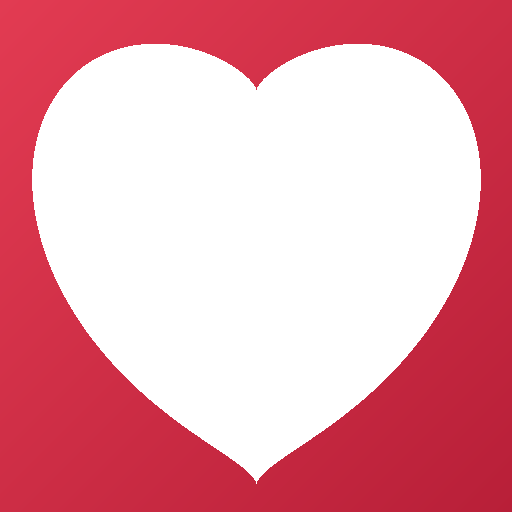
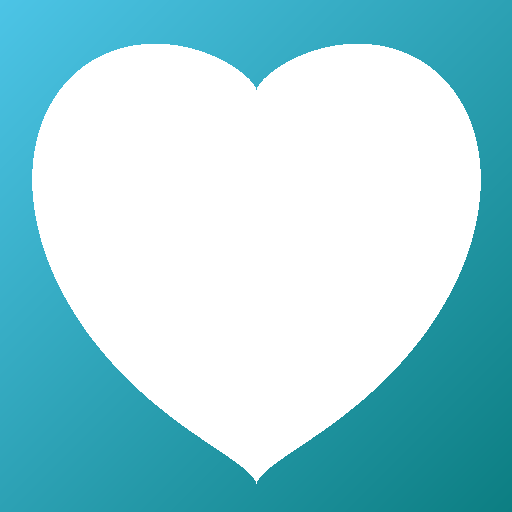
Cambiar a Gemini (gratis) y rediseñar en celeste/calipso
- IA: el backend ahora usa Gemini (Google), que tiene capa gratuita,
  en lugar de Anthropic. Nueva variable GEMINI_API_KEY y GEMINI_MODEL.
  Actualizado .env.example y README con el enlace a Google AI Studio.
- Paleta rediseñada con celeste y calipso como colores protagonistas
  (sus favoritos), dorado del circo como acento y el rojo reservado
  solo para el botón SOS por seguridad. Actualizados botones, cintas,
  chat, mapa (marcadores y ruta), íconos PWA, favicon y theme-color.

Claude-Session: https://claude.ai/code/session_01Wpqw4RuzVFaFfNsXj3oX2w

diff --git a/src/estilos.css b/src/estilos.css
@@ -1,25 +1,39 @@
 /* ============================================================
    Contigo — sistema de diseño
-   Inspirado en sus gustos: circo (colores festivos), manualidades
-   (texturas y bordes hechos a mano), taekwondo y cueca (detalles).
+   Paleta protagonista: CELESTE y CALIPSO (sus colores favoritos),
+   con dorado del circo como acento cálido. El rojo se reserva SOLO
+   para el botón SOS, para que resalte por seguridad.
+   Inspiración: circo, taekwondo, cueca y manualidades.
    Prioridad: accesibilidad. Letra grande, alto contraste, botones enormes.
    ============================================================ */
 
 :root {
-  /* Paleta circo + calidez */
-  --rojo-carpa: #e23b52;
-  --rojo-carpa-osc: #b81f38;
-  --dorado: #f2b134;
-  --turquesa: #17a2a2;
-  --turquesa-osc: #0e7d7d;
-  --crema: #fff8ef;
-  --papel: #fffdf9;
-  --tinta: #2b2320;
-  --tinta-suave: #6d5f56;
-  --verde-calma: #3ea672;
+  /* Celeste y calipso (favoritos de ella) */
+  --celeste: #4cc4e6;
+  --celeste-osc: #2ba0d6;
+  --celeste-claro: #bfeaf5;
+  --calipso: #12a3a8;
+  --calipso-osc: #0c7e82;
 
-  --sombra: 0 6px 0 rgba(0, 0, 0, 0.12);
-  --sombra-suave: 0 8px 24px rgba(43, 35, 32, 0.14);
+  /* Acentos cálidos de circo */
+  --dorado: #f4b63f;
+  --dorado-osc: #dd9a1f;
+  --coral: #ff7a6b;
+  --verde-calma: #26b39c;
+  --verde-calma-osc: #1c8f7f;
+
+  /* Rojo SOLO para el SOS */
+  --rojo-sos: #e23b52;
+  --rojo-sos-osc: #b81f38;
+
+  /* Neutros suaves con tinte celeste */
+  --crema: #f1fbfd;
+  --papel: #ffffff;
+  --tinta: #1f3a42;
+  --tinta-suave: #5a7681;
+
+  --sombra: 0 6px 0 rgba(12, 58, 66, 0.14);
+  --sombra-suave: 0 8px 24px rgba(18, 74, 82, 0.16);
   --radio: 26px;
 
   --fuente: system-ui, -apple-system, 'Segoe UI', Roboto, sans-serif;
@@ -33,10 +47,10 @@ body {
   font-family: var(--fuente);
   color: var(--tinta);
   background-color: var(--crema);
-  /* Textura suave tipo carpa de circo */
+  /* Textura suave celeste/calipso */
   background-image:
-    radial-gradient(circle at 20% 0%, rgba(242, 177, 52, 0.10), transparent 40%),
-    radial-gradient(circle at 90% 10%, rgba(23, 162, 162, 0.10), transparent 40%);
+    radial-gradient(circle at 15% 0%, rgba(76, 196, 230, 0.16), transparent 42%),
+    radial-gradient(circle at 92% 8%, rgba(18, 163, 168, 0.14), transparent 42%);
   -webkit-font-smoothing: antialiased;
   overscroll-behavior: none;
 }
@@ -67,14 +81,14 @@ body {
   padding: 16px 18px 4px;
 }
 .saludo { margin: 0; font-size: 1.55rem; line-height: 1.2; font-weight: 800; }
-.saludo .nombre { color: var(--rojo-carpa); }
+.saludo .nombre { color: var(--celeste-osc); }
 .subsaludo { margin: 4px 0 0; color: var(--tinta-suave); font-size: 1.05rem; }
 
-/* Cintas de circo decorativas */
+/* Cintas de circo decorativas (en celeste/calipso) */
 .cinta-circo {
   height: 12px;
   background: repeating-linear-gradient(
-    -45deg, var(--rojo-carpa) 0 18px, var(--crema) 18px 36px
+    -45deg, var(--celeste) 0 18px, var(--calipso) 18px 36px
   );
   opacity: 0.9;
 }
@@ -97,16 +111,16 @@ body {
   transition: transform 0.08s ease, filter 0.12s ease;
   line-height: 1.15;
 }
-.boton-grande:active { transform: translateY(4px); box-shadow: 0 2px 0 rgba(0,0,0,0.12); }
+.boton-grande:active { transform: translateY(4px); box-shadow: 0 2px 0 rgba(12,58,66,0.14); }
 .boton-grande .emoji { font-size: 2.4rem; line-height: 1; }
 .boton-grande small { display: block; font-size: 0.95rem; font-weight: 600; opacity: 0.92; margin-top: 4px; }
 
-.boton-grande.casa { background: linear-gradient(135deg, var(--turquesa), var(--turquesa-osc)); }
-.boton-grande.perdida { background: linear-gradient(135deg, var(--verde-calma), #2f8659); }
-.boton-grande.lugares { background: linear-gradient(135deg, var(--dorado), #d9951f); color: var(--tinta); }
-.boton-grande.lugares small { opacity: 0.75; }
+.boton-grande.casa { background: linear-gradient(135deg, var(--celeste), var(--celeste-osc)); }
+.boton-grande.perdida { background: linear-gradient(135deg, var(--verde-calma), var(--calipso-osc)); }
+.boton-grande.lugares { background: linear-gradient(135deg, var(--dorado), var(--dorado-osc)); color: var(--tinta); }
+.boton-grande.lugares small { opacity: 0.78; }
 
-/* ---------- Barra / botón SOS ---------- */
+/* ---------- Barra / botón SOS (rojo, por seguridad) ---------- */
 .sos-barra {
   position: sticky;
   bottom: 0;
@@ -122,7 +136,7 @@ body {
   font-weight: 900;
   letter-spacing: 0.5px;
   color: #fff;
-  background: linear-gradient(135deg, var(--rojo-carpa), var(--rojo-carpa-osc));
+  background: linear-gradient(135deg, var(--rojo-sos), var(--rojo-sos-osc));
   box-shadow: var(--sombra-suave);
   cursor: pointer;
   display: flex; align-items: center; justify-content: center; gap: 12px;
@@ -140,7 +154,7 @@ body {
   border-radius: var(--radio);
   padding: 18px;
   box-shadow: var(--sombra-suave);
-  border: 2px dashed rgba(226, 59, 82, 0.18); /* costura tipo manualidad */
+  border: 2px dashed rgba(18, 163, 168, 0.22); /* costura tipo manualidad */
 }
 .lugar {
   display: flex; align-items: center; gap: 16px;
@@ -160,15 +174,15 @@ body {
   box-shadow: var(--sombra); display: inline-flex; align-items: center; gap: 10px;
   justify-content: center;
 }
-.boton:active { transform: translateY(3px); box-shadow: 0 1px 0 rgba(0,0,0,0.12); }
-.boton.principal { background: var(--turquesa); color: #fff; }
+.boton:active { transform: translateY(3px); box-shadow: 0 1px 0 rgba(12,58,66,0.14); }
+.boton.principal { background: var(--calipso); color: #fff; }
 .boton.dorado { background: var(--dorado); color: var(--tinta); }
 .boton.suave { background: #fff; color: var(--tinta); box-shadow: var(--sombra-suave); }
 .boton.bloque { width: 100%; }
 
 .volver {
   background: none; border: none; font-size: 1.1rem; font-weight: 800;
-  color: var(--rojo-carpa); cursor: pointer; padding: 8px 0; display: inline-flex;
+  color: var(--celeste-osc); cursor: pointer; padding: 8px 0; display: inline-flex;
   align-items: center; gap: 8px;
 }
 
@@ -177,11 +191,11 @@ body {
 /* ---------- Formularios ---------- */
 label { display: block; font-weight: 800; margin: 14px 0 6px; }
 input, textarea {
-  width: 100%; border: 3px solid #eadfce; border-radius: 16px;
+  width: 100%; border: 3px solid #d3ecf3; border-radius: 16px;
   padding: 14px 16px; font-size: 1.15rem; font-family: var(--fuente);
   background: #fff; color: var(--tinta);
 }
-input:focus, textarea:focus { outline: none; border-color: var(--turquesa); }
+input:focus, textarea:focus { outline: none; border-color: var(--celeste-osc); }
 
 /* ---------- Mapa ---------- */
 .mapa-caja { border-radius: var(--radio); overflow: hidden; box-shadow: var(--sombra-suave); }
@@ -198,24 +212,24 @@ input:focus, textarea:focus { outline: none; border-color: var(--turquesa); }
 .mensajes { flex: 1; display: flex; flex-direction: column; gap: 12px; overflow-y: auto; padding-bottom: 8px; }
 .burbuja { max-width: 85%; padding: 16px 18px; border-radius: 22px; font-size: 1.2rem; line-height: 1.35; }
 .burbuja.ia { background: #fff; color: var(--tinta); box-shadow: var(--sombra-suave); border-bottom-left-radius: 6px; align-self: flex-start; }
-.burbuja.yo { background: var(--turquesa); color: #fff; border-bottom-right-radius: 6px; align-self: flex-end; }
+.burbuja.yo { background: var(--celeste-osc); color: #fff; border-bottom-right-radius: 6px; align-self: flex-end; }
 .chat-entrada { display: flex; gap: 10px; align-items: flex-end; }
 .chat-entrada textarea { resize: none; height: 56px; }
 .boton-voz {
   flex: none; width: 62px; height: 62px; border-radius: 50%; border: none;
-  background: var(--rojo-carpa); color: #fff; font-size: 1.6rem; cursor: pointer;
+  background: var(--calipso); color: #fff; font-size: 1.6rem; cursor: pointer;
   box-shadow: var(--sombra-suave);
 }
-.boton-voz.escuchando { animation: latido 1s ease-in-out infinite; background: var(--rojo-carpa-osc); }
+.boton-voz.escuchando { animation: latido 1s ease-in-out infinite; background: var(--calipso-osc); }
 
 /* ---------- Utilidades ---------- */
 .centrado { text-align: center; }
-.aviso { background: #fff4d6; border-radius: 16px; padding: 14px 16px; font-size: 1rem; color: #7a5b00; }
+.aviso { background: #e6f7fb; border-radius: 16px; padding: 14px 16px; font-size: 1rem; color: #0c5b66; }
 .error { background: #ffe0e4; color: #a01528; border-radius: 16px; padding: 14px 16px; }
 .cargando { text-align: center; color: var(--tinta-suave); font-size: 1.1rem; padding: 18px; }
 .chip-fila { display: flex; flex-wrap: wrap; gap: 10px; }
 .chip {
-  background: #fff; border: 2px solid #eadfce; border-radius: 999px;
+  background: #fff; border: 2px solid #d3ecf3; border-radius: 999px;
   padding: 10px 16px; font-size: 1rem; font-weight: 700; cursor: pointer;
 }
 .pie-firma { text-align: center; color: var(--tinta-suave); font-size: 0.85rem; padding: 8px 0 16px; }

diff --git a/api/asistente.js b/api/asistente.js
@@ -1,6 +1,9 @@
 // Backend seguro (función serverless de Vercel).
-// Recibe la conversación y el contexto, y responde con Claude usando un tono cálido.
-// La API key vive SOLO aquí (variable de entorno), nunca en el teléfono.
+// Recibe la conversación y el contexto, y responde con Gemini (Google) usando un tono cálido.
+// La API key de Gemini vive SOLO aquí (variable de entorno), nunca en el teléfono.
+// Gemini tiene una capa GRATIS: consigue tu clave en https://aistudio.google.com/app/apikey
+
+const MODELO = process.env.GEMINI_MODEL || 'gemini-2.0-flash'
 
 export default async function handler(req, res) {
   if (req.method !== 'POST') {
@@ -8,9 +11,9 @@ export default async function handler(req, res) {
     return
   }
 
-  const apiKey = process.env.ANTHROPIC_API_KEY
+  const apiKey = process.env.GEMINI_API_KEY
   if (!apiKey) {
-    res.status(500).json({ error: 'Falta configurar ANTHROPIC_API_KEY' })
+    res.status(500).json({ error: 'Falta configurar GEMINI_API_KEY' })
     return
   }
 
@@ -42,41 +45,37 @@ export default async function handler(req, res) {
       `CONTEXTO: ${ubic} ${casa} ${lugares}`
     ].join('\n')
 
-    const messages = mensajes.map((m) => ({
-      role: m.de === 'yo' ? 'user' : 'assistant',
-      content: m.texto
+    // Gemini usa roles "user" y "model".
+    const contents = mensajes.map((m) => ({
+      role: m.de === 'yo' ? 'user' : 'model',
+      parts: [{ text: m.texto }]
     }))
-    // Aseguramos que la conversación empiece con el usuario.
-    if (messages.length === 0 || messages[0].role !== 'user') {
-      messages.unshift({ role: 'user', content: 'Me siento perdida.' })
+    if (contents.length === 0 || contents[0].role !== 'user') {
+      contents.unshift({ role: 'user', parts: [{ text: 'Me siento perdida.' }] })
     }
 
-    const r = await fetch('https://api.anthropic.com/v1/messages', {
+    const url = `https://generativelanguage.googleapis.com/v1beta/models/${MODELO}:generateContent?key=${apiKey}`
+    const r = await fetch(url, {
       method: 'POST',
-      headers: {
-        'x-api-key': apiKey,
-        'anthropic-version': '2023-06-01',
-        'content-type': 'application/json'
-      },
+      headers: { 'Content-Type': 'application/json' },
       body: JSON.stringify({
-        model: 'claude-haiku-4-5-20251001',
-        max_tokens: 300,
-        system,
-        messages
+        system_instruction: { parts: [{ text: system }] },
+        contents,
+        generationConfig: { maxOutputTokens: 300, temperature: 0.85 }
       })
     })
 
     if (!r.ok) {
       const detalle = await r.text()
-      console.error('Error de Anthropic:', detalle)
+      console.error('Error de Gemini:', detalle)
       res.status(502).json({ error: 'La compañera no está disponible ahora' })
       return
     }
 
     const data = await r.json()
-    const respuesta = (data.content || [])
-      .filter((b) => b.type === 'text')
-      .map((b) => b.text)
+    const respuesta = (data.candidates?.[0]?.content?.parts || [])
+      .map((p) => p.text)
+      .filter(Boolean)
       .join('\n')
       .trim()
 

diff --git a/src/components/MapaLeaflet.jsx b/src/components/MapaLeaflet.jsx
@@ -12,8 +12,8 @@ function iconoEmoji(emoji, color) {
   })
 }
 
-const iconoYo = iconoEmoji('🧍', '#17a2a2')
-const iconoDestino = iconoEmoji('📍', '#e23b52')
+const iconoYo = iconoEmoji('🧍', '#12a3a8')
+const iconoDestino = iconoEmoji('📍', '#ff7a6b')
 
 // Ajusta la vista para que se vean todos los puntos importantes.
 function AjustarVista({ yo, destino, ruta }) {
@@ -44,7 +44,7 @@ export default function MapaLeaflet({ yo, destino, ruta }) {
         {yo && <Marker position={[yo.lat, yo.lng]} icon={iconoYo} />}
         {destino && <Marker position={[destino.lat, destino.lng]} icon={iconoDestino} />}
         {ruta && ruta.length > 0 && (
-          <Polyline positions={ruta} pathOptions={{ color: '#e23b52', weight: 7, opacity: 0.85 }} />
+          <Polyline positions={ruta} pathOptions={{ color: '#2ba0d6', weight: 7, opacity: 0.9 }} />
         )}
         <AjustarVista yo={yo} destino={destino} ruta={ruta} />
       </MapContainer>

diff --git a/index.html b/index.html
@@ -4,7 +4,7 @@
     <meta charset="UTF-8" />
     <link rel="icon" type="image/svg+xml" href="/favicon.svg" />
     <meta name="viewport" content="width=device-width, initial-scale=1.0, maximum-scale=1.0, user-scalable=no, viewport-fit=cover" />
-    <meta name="theme-color" content="#e23b52" />
+    <meta name="theme-color" content="#12a3a8" />
     <meta name="apple-mobile-web-app-capable" content="yes" />
     <meta name="apple-mobile-web-app-status-bar-style" content="default" />
     <title>Contigo — tu guía</title>

diff --git a/vite.config.js b/vite.config.js
@@ -14,8 +14,8 @@ export default defineConfig({
         short_name: 'Contigo',
         description: 'Tu guía para volver a casa. Nunca estás sola.',
         lang: 'es',
-        theme_color: '#e23b52',
-        background_color: '#fff8ef',
+        theme_color: '#12a3a8',
+        background_color: '#f1fbfd',
         display: 'standalone',
         orientation: 'portrait',
         start_url: '/',

diff --git a/README.md b/README.md
@@ -19,7 +19,7 @@ Inspirada en sus gustos: **taekwondo 🥋, circo 🎪, cueca 💃 y manualidades
 ## Tecnología (todo gratis o de costo mínimo)
 - **PWA** con **React + Vite** (instalable en Android).
 - Mapa: **Leaflet + OpenStreetMap**. Rutas a pie: **OpenRouteService** (plan gratis).
-- IA: **Claude (Haiku)** vía un backend seguro (`api/asistente.js`). Costo: centavos al mes.
+- IA: **Gemini (Google)** vía un backend seguro (`api/asistente.js`). Tiene **capa gratis**.
 - Voz: **Web Speech API** del navegador. Base de datos: **Supabase** (plan gratis).
 
 ## Puesta en marcha (desarrollo)
@@ -34,7 +34,7 @@ La app funciona aunque dejes las claves vacías:
 - **Sin backend de IA** (en `npm run dev` no corre `api/`): usa respuestas cálidas de reserva.
 
 ## Claves (todas con plan gratis o de centavos)
-1. **Anthropic (IA)** — https://console.anthropic.com → `ANTHROPIC_API_KEY` (solo en el backend).
+1. **Gemini (IA, gratis)** — https://aistudio.google.com/app/apikey → `GEMINI_API_KEY` (solo en el backend).
 2. **OpenRouteService (rutas a pie)** — https://openrouteservice.org/dev/#/signup → `VITE_ORS_API_KEY`.
 3. **Supabase (base de datos)** — https://supabase.com → `VITE_SUPABASE_URL` y `VITE_SUPABASE_ANON_KEY`.
 4. **WhatsApp del contacto (SOS)** — `VITE_CONTACTO_WHATSAPP` (ej. Chile: `56912345678`).
